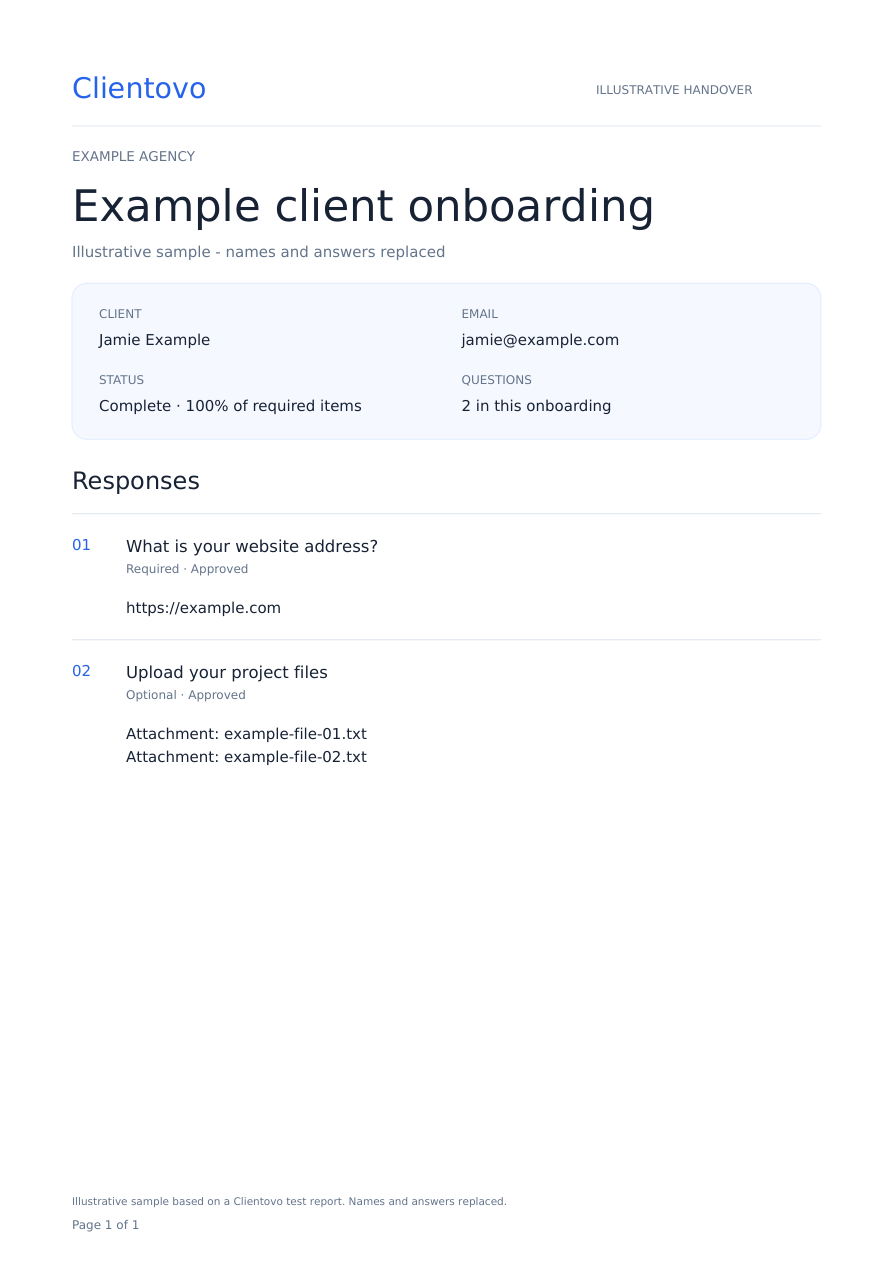
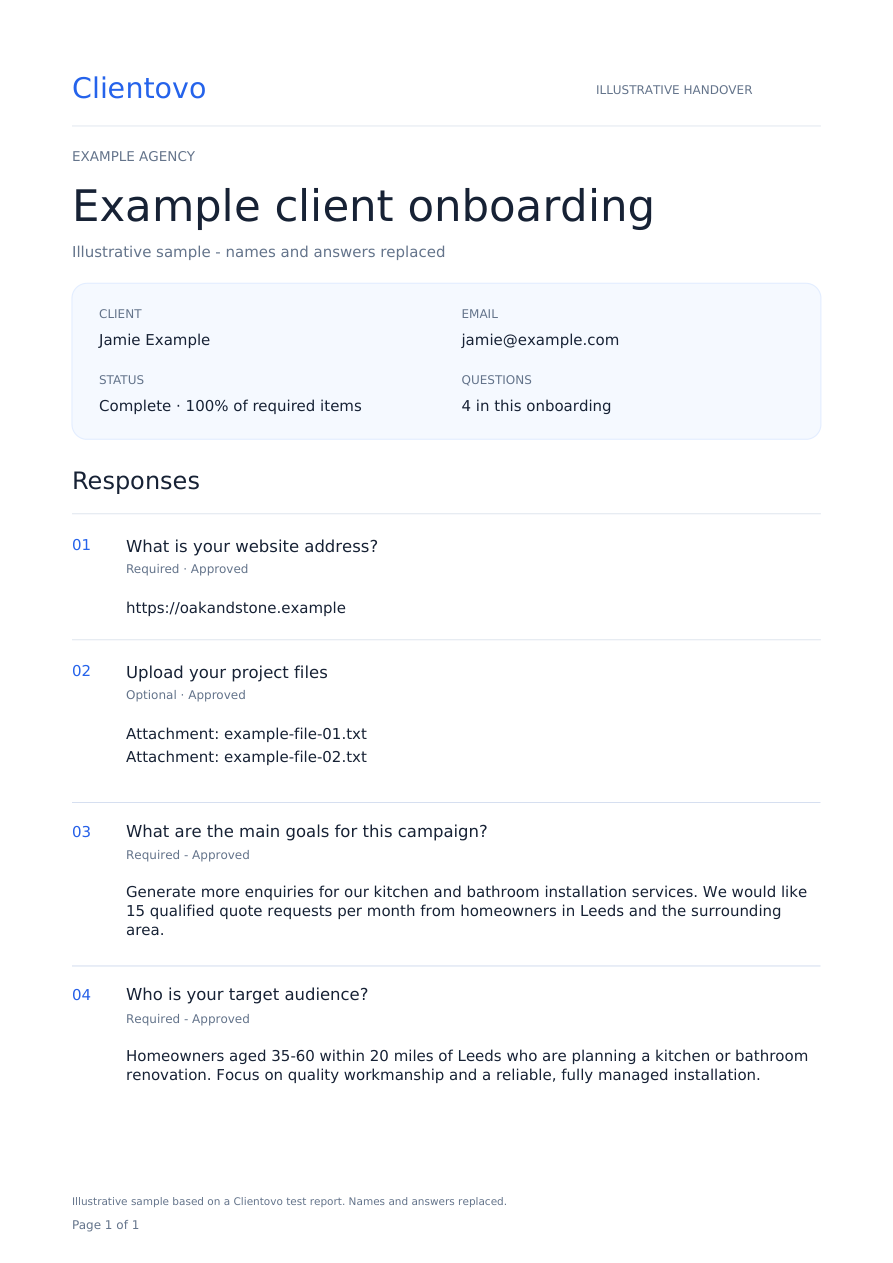
Expand sample handover with realistic campaign goals and audience answers (#21)

Changed region(s): [[0.1512, 0.6485, 0.9071, 0.7411], [0.1512, 0.772, 0.8768, 0.8646], [0.2116, 0.4632, 0.3931, 0.4941]]

diff --git a/index.html b/index.html
@@ -27,7 +27,7 @@
 <meta name="twitter:image" content="https://clientovo.com/og-image.png">
 <script type="application/ld+json">{"@context":"https://schema.org","@graph":[{"@type":"Organization","@id":"https://clientovo.com/#organization","name":"Clientovo","url":"https://clientovo.com/","email":"contact@clientovo.com"},{"@type":"FAQPage","mainEntity":[{"@type":"Question","name":"What does the free onboarding include?","acceptedAnswer":{"@type":"Answer","text":"One real client onboarding using your agency’s template, including collection, follow-ups, review and handover. Your new account includes one free credit. No card is needed, and you won’t be enrolled in a paid subscription."}},{"@type":"Question","name":"How is this different from a form?","acceptedAnswer":{"@type":"Answer","text":"Your portal gives you a place to create templates and track clients. Our team handles the work around the form: collecting information, following up, reviewing responses and organising the finished pack."}},{"@type":"Question","name":"Can we use our own questions and requirements?","acceptedAnswer":{"@type":"Answer","text":"Yes. Create reusable templates for the information, files and account access details your agency needs. Use a different template for each kind of project. Do not request passwords through an onboarding form."}},{"@type":"Question","name":"Do we keep control of the client relationship?","acceptedAnswer":{"@type":"Answer","text":"Yes. Your agency owns the relationship and delivers the project. We handle the onboarding admin you ask us to manage, and you can track progress in your portal."}},{"@type":"Question","name":"When is onboarding complete, and how do we get the pack?","acceptedAnswer":{"@type":"Answer","text":"An onboarding is ready for handover once the required information has been supplied and our team has reviewed and approved the answers and files. We then publish the pack in your portal and email your agency a link. Reaching 100% alone does not send the handover automatically."}},{"@type":"Question","name":"How often do you follow up with clients?","acceptedAnswer":{"@type":"Answer","text":"Our standard reminder interval is three days, measured from the latest response or reminder while required information is still missing. Our team can adjust or pause reminders for an onboarding."}},{"@type":"Question","name":"What happens if a client stops responding?","acceptedAnswer":{"@type":"Answer","text":"After seven days without a new answer, the onboarding is flagged for our team’s attention. Outstanding items stay visible in your portal. Missing required information is not treated as complete."}},{"@type":"Question","name":"How long does an onboarding take?","acceptedAnswer":{"@type":"Answer","text":"Timing depends on how quickly your client provides the required information and whether any answers or files need correcting. You can track progress in your portal while we manage the follow-ups and review."}}]}]}</script>
 <script src="/site.js?v=20261021-proof1" defer></script>
-<link rel="stylesheet" href="/open.css?v=20261021-proof1">
+<link rel="stylesheet" href="/open.css?v=20261021-expanded-sample1">
 </head><body><a class="skip-link" href="#main">Skip to content</a>
 <header class="site-header">
   <nav class="shell site-nav" aria-label="Main navigation">
@@ -82,10 +82,10 @@
  <div class="shell handover-layout">
   <div class="handover-copy"><p class="kicker">The finished handover</p><h2 id="handover-heading">What your team receives</h2><p class="lede">Your client’s answers and files, reviewed and organised so your team can start the work.</p>
    <ul class="handover-contents"><li><strong>A clear summary</strong><span>Each question alongside the approved answer, with required items clearly marked.</span></li><li><strong>The client’s files</strong><span>Uploaded files available with the completed onboarding in your agency portal.</span></li><li><strong>A reviewed handover</strong><span>Our team checks the responses before making the pack available and emailing your agency.</span></li></ul>
-   <a class="button button-secondary" href="/media/example-onboarding-handover.pdf" target="_blank" rel="noopener">Open the example handover <span aria-hidden="true">↗</span></a>
+   <a class="button button-secondary" href="/media/example-onboarding-handover.pdf?v=20261021-expanded" target="_blank" rel="noopener">Open the example handover <span aria-hidden="true">↗</span></a>
    <p class="handover-disclosure">Illustrative sample based on a Clientovo test report. Names and answers have been replaced. The PDF shows attachment names; sample attachment files are not included.</p>
   </div>
-  <figure class="handover-example"><a href="/media/example-onboarding-handover.pdf" target="_blank" rel="noopener" aria-label="Open the illustrative Clientovo handover PDF in a new tab"><img src="/media/example-onboarding-handover.png" width="893" height="1263" loading="lazy" decoding="async" alt="Illustrative Clientovo handover showing approved website information and two file references for Jamie Example"><span class="handover-preview-label">View the sample PDF <span aria-hidden="true">↗</span></span></a><figcaption>Example format, using illustrative client details.</figcaption></figure>
+  <figure class="handover-example"><a href="/media/example-onboarding-handover.pdf?v=20261021-expanded" target="_blank" rel="noopener" aria-label="Open the illustrative Clientovo handover PDF in a new tab"><img src="/media/example-onboarding-handover.png?v=20261021-expanded" width="893" height="1263" loading="lazy" decoding="async" alt="Illustrative Clientovo handover with four completed questions covering the website, project files, campaign goals and target audience"><span class="handover-preview-label">View the sample PDF <span aria-hidden="true">↗</span></span></a><figcaption>Example format, using illustrative client details.</figcaption></figure>
  </div>
 </section><section class="section section-tint" id="pricing">
     <div class="shell">

diff --git a/open.css b/open.css
@@ -208,7 +208,7 @@ label{color:#c2d0ed;font-size:.8125rem}.form-privacy{color:#9caed0}
 .handover-example{margin:0;width:100%;max-width:420px;justify-self:end}
 .handover-example>a{position:relative;display:block;background:#fff;border:1px solid #4b6088;border-radius:12px;overflow:hidden;box-shadow:0 18px 48px #0004}
 .handover-example>a:focus-visible{outline:3px solid #9cbbff;outline-offset:5px}
-.handover-example img{display:block;width:100%;height:auto;aspect-ratio:5/6;object-fit:cover;object-position:top}
+.handover-example img{display:block;width:100%;height:auto;aspect-ratio:auto;object-fit:contain}
 .handover-preview-label{display:flex;justify-content:space-between;align-items:center;padding:14px 18px;background:#10203b;color:#e1eaff;font-size:.8125rem}
 .handover-example figcaption{font-size:.6875rem;color:#94a4c4;padding-top:12px;line-height:1.6}
 .founder-profile{min-width:0}
